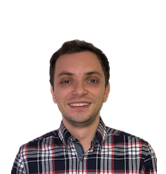
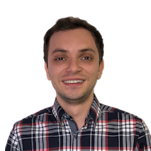
fotos nuevas

diff --git a/index.html b/index.html
@@ -111,7 +111,7 @@
 				</div>
 				<video autoplay loop muted playsinline src="images/banner.mp4"></video>
 			</section>
-		
+
 		<!-- Testimonials -->
 			<section class="wrapper">
 				<div class="inner">
@@ -120,7 +120,7 @@
 						<p></p>
 					</header>
 					<div class="youtube-container">
-						<iframe class="youtube-video" 
+						<iframe class="youtube-video"
 						        src="https://www.youtube.com/embed/BbkNHHqHzjA"
 						        frameborder="0"
 						        allow="autoplay; encrypted-media"
@@ -131,15 +131,15 @@
 				</div>
 				<div style="text-align: center;">
 					<h5>
-						<a href="https://twitter.com/agrocognitive" 
+						<a href="https://twitter.com/agrocognitive"
 						   target="_blank" class="btn-social btn-outline">
 							<i class="btn-icon-social fab fa-twitter"></i>
 						</a>
-						<a href="https://www.instagram.com/agrocognitive" 
+						<a href="https://www.instagram.com/agrocognitive"
 						   target="_blank" class="btn-social btn-outline">
 							<i class="btn-icon-social fab fa-instagram"></i>
 						</a>
-						<a href="https://www.youtube.com/channel/UCQkIIs2O4fcKWFGNYcz5tag" 
+						<a href="https://www.youtube.com/channel/UCQkIIs2O4fcKWFGNYcz5tag"
 						   target="_blank" class="btn-social btn-outline">
 							<i class="btn-icon-social fab fa-youtube"></i>
 						</a>
@@ -152,7 +152,7 @@
 			<section id="cta" class="cta01 wrapper">
 				<div class="inner" style="text-align: center; text-shadow: black 2px 2px;" >
 					<h2>¡Ayúdanos a seguir con el desarrollo de este proyecto!</h2>
-					
+
 					<ul class="plain">
 						<li> <b>BTC:</b> 35ex8G3pLFBNaek4nU7PY6fix54uXyDugm<br></li>
 						<li> <b>DASH:</b> XyXH96S293zcqDMxjj7voqFvpdtdz6ptW1<br></li>
@@ -171,7 +171,7 @@
 					<header class="special">
 						<h2>¿Qué ofrece AgroCognitive?</h2>
 					</header>
-					
+
 					<div class="highlights">
 						<section>
 							<div class="content">
@@ -246,16 +246,16 @@
 								<header>
 									<img class="perfil" src="images/maria.jpg">
 									<h4>María Victoria Díaz</h4>
-									<h3>Consulting Director</h3>
+									<h3>CTO</h3>
 								</header>
 							</div>
 						</section>
 						<section>
 							<div class="content">
 								<header>
-									<img class="perfil" src="images/carlos.png">
-									<h4>Carlos Spaggiari</h4>
-									<h3>Full Stack</h3>
+									<img class="perfil" src="images/juan.png">
+									<h4>Juan Carlos López</h4>
+									<h3>COO</h3>
 								</header>
 							</div>
 						</section>
@@ -271,9 +271,27 @@
 						<section>
 							<div class="content">
 								<header>
+									<img class="perfil" src="images/carlos.png">
+									<h4>Carlos Spaggiari</h4>
+									<h3>Desarrollado Backend</h3>
+								</header>
+							</div>
+						</section>
+						<section>
+							<div class="content">
+								<header>
 									<img class="perfil" src="images/francisco.png">
 									<h4>Francisco Padrino</h4>
 									<h3>Especialista en Data Science</h3>
+								</header>
+							</div>
+						</section>
+						<section>
+							<div class="content">
+								<header>
+									<img class="perfil" src="images/fernando.png">
+									<h4>Fernando Salas</h4>
+									<h3>Desarrollador Frontend</h3>
 								</header>
 							</div>
 						</section>
@@ -297,11 +315,11 @@
 						<section>
 							<h3>AgroCognitive</h3>
 							<p>
-								AgroCognitive es un proyecto en desarrollo por ingenieros de la empresa 
+								AgroCognitive es un proyecto en desarrollo por ingenieros de la empresa
 								<a href="http://smartbasegroup.com" target="_blank">
 									Smartbase Group
-								</a> 
-								que hacen vida en Venezuela. Este proyecto ha sido impulsado por la DAO de 
+								</a>
+								que hacen vida en Venezuela. Este proyecto ha sido impulsado por la DAO de
 								<a target="_blank" href="https://www.dash.org/">
 									Dash Digital Cash
 								</a>. Además, cuenta con los aliados estratégicos: UpDrone, Fundacaña Venezuela y Soca-Portuguesa
